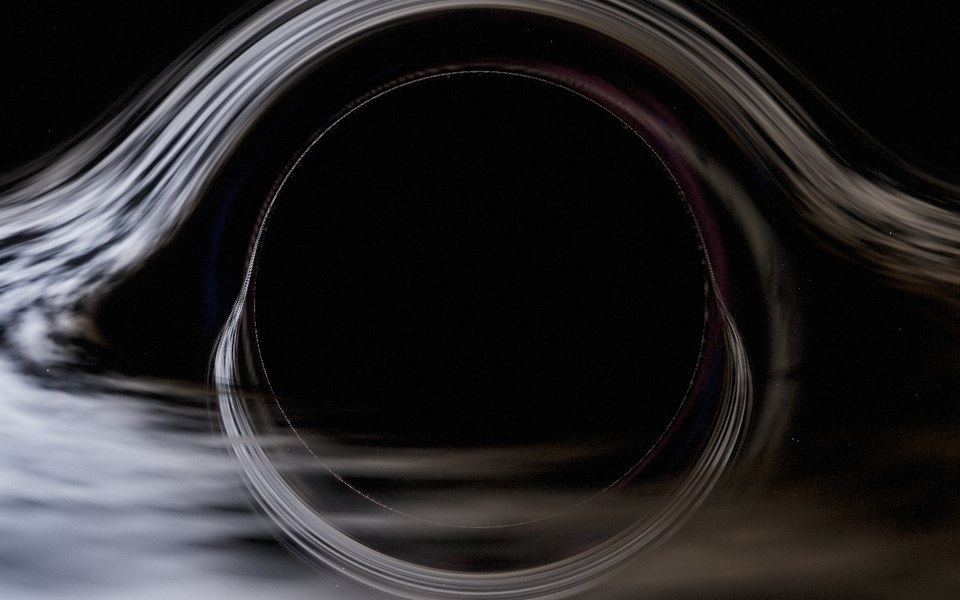
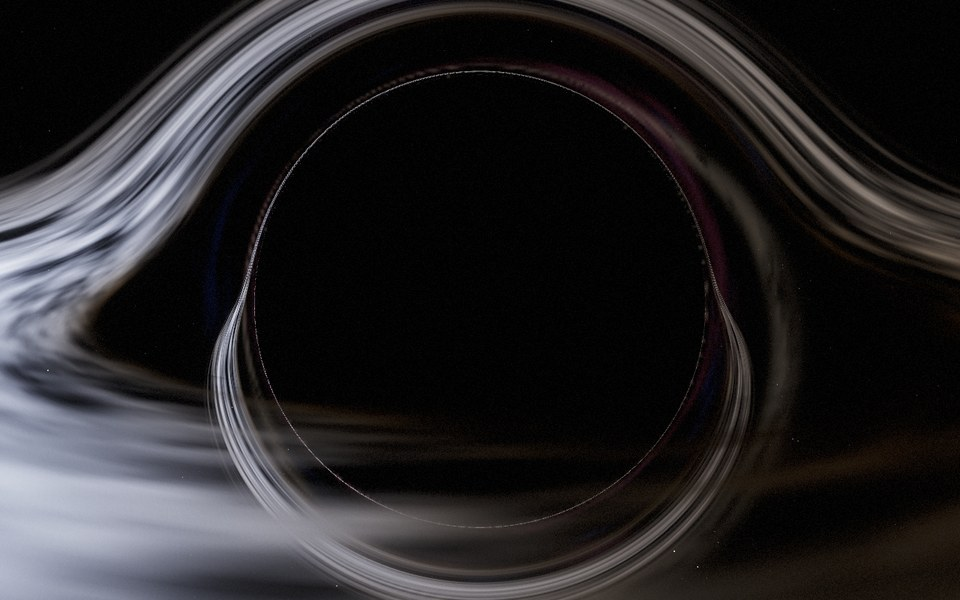
blackHole: infalling gas streams, finer flowing turbulence
Two trailing spiral streams wind in from the outer disk, carried round at
the local orbital speed with clumps sliding inward; a 256-texel radial disk
texture with azimuthally elongated turbulence that shears into filaments.

Claude-Session: https://claude.ai/code/session_01YBqayaET7JSh2nx9HSb69L

Changed region(s): [[0.0, 0.0, 1.0, 1.0], [0.8438, 0.75, 0.9062, 0.81], [0.25, 0.45, 0.2812, 0.51]]

diff --git a/crates/anikit-core/src/blackhole.rs b/crates/anikit-core/src/blackhole.rs
@@ -41,7 +41,7 @@ const U_CAPTURED: f32 = 2.0;
 /// Value stored after a ray has escaped (negative: never the disk).
 const U_ESCAPED: f32 = -0.25;
 /// Disk texture: radial texels (ln r) and azimuthal texels.
-pub const TEX_X: usize = 192;
+pub const TEX_X: usize = 256;
 pub const TEX_A: usize = 1024;
 const TEX_R0: f32 = 4.5;
 const BB_N: usize = 1024;
@@ -560,10 +560,10 @@ impl BlackHole {
         let mut noise = vec![0.0f32; TEX_X * (TEX_A + 1)];
         for x in 0..TEX_X {
             for a in 0..TEX_A {
-                let fx = x as f32 / TEX_X as f32 * 32.0;
-                let fa = a as f32 / TEX_A as f32 * 28.0;
+                let fx = x as f32 / TEX_X as f32 * 24.0;
+                let fa = a as f32 / TEX_A as f32 * 14.0;
                 // Clumpy fine structure on top of broad lanes and gaps.
-                let n = fbm(fx, fa, 32, 28, 4, seed);
+                let n = fbm(fx, fa, 24, 14, 4, seed);
                 let m = fbm(fx * 0.25 + 3.1, fa * 0.2, 8, 8, 3, seed ^ 0x55);
                 let v = (n * 2.3 - 0.68 + (m - 0.5) * 0.7).max(0.0);
                 noise[x * (TEX_A + 1) + a] = v * sqrtf(v) * 1.35;
@@ -1192,6 +1192,51 @@ impl BlackHole {
                     let a = (ac as i32 + da).rem_euclid(TEX_A as i32) as usize;
                     let d = (floorf(ac) + da as f32 - ac) / sig_a;
                     row[a] += amp * wx * exp_neg(d * d);
+                }
+            }
+        }
+        // Infalling gas streams: two trailing spirals that wind in from the
+        // outer disk, rotating with the gas at their radius, with clumps
+        // sliding inward along them; each fades in and out over its life.
+        if p.hot_spots > 0.0 {
+            for i in 0..2u32 {
+                let life = 420.0;
+                let c = t / life + i as f32 * 0.5;
+                let cf = floorf(c);
+                let hs = |k: u32| hashf(i + 17, cf as i32 as u32, k);
+                let env = {
+                    let s = libm::sinf(PI * (c - cf));
+                    s * s
+                };
+                let amp = p.hot_spots * 0.9 * env;
+                let az0 = hs(1) * TAU;
+                let pitch = 2.2 + hs(2) * 1.2;
+                let age = (c - cf) * life;
+                let sig_a = 0.16 * tex_per_rad;
+                let span = (3.0 * sig_a) as i32 + 1;
+                for x in 0..TEX_X - 1 {
+                    let lr = lx0 + (lx1 - lx0) * x as f32 / (TEX_X - 2) as f32;
+                    let r = libm::expf(lr);
+                    if r < ISCO {
+                        continue;
+                    }
+                    let om = 1.0 / (r * sqrtf(r));
+                    // Trailing spiral: azimuth grows inward; the whole stream
+                    // is carried around at the local orbital speed.
+                    let along = lx1 - lr;
+                    let clump = 0.55 + 0.45 * libm::sinf(along * 9.0 + age * 0.06);
+                    let w = amp * clump * smooth(lx1, lx1 - 0.25, lr) * smooth(libm::logf(ISCO), libm::logf(ISCO) + 0.3, lr);
+                    if w <= 0.0 {
+                        continue;
+                    }
+                    let mut ac = (az0 + pitch * along + om * age - az_off) * tex_per_rad;
+                    ac -= floorf(ac / TEX_A as f32) * TEX_A as f32;
+                    let row = &mut self.disk[x * (TEX_A + 1)..(x + 1) * (TEX_A + 1)];
+                    for da in -span..=span {
+                        let a = (ac as i32 + da).rem_euclid(TEX_A as i32) as usize;
+                        let d = (floorf(ac) + da as f32 - ac) / sig_a;
+                        row[a] += w * exp_neg(d * d);
+                    }
                 }
             }
         }
